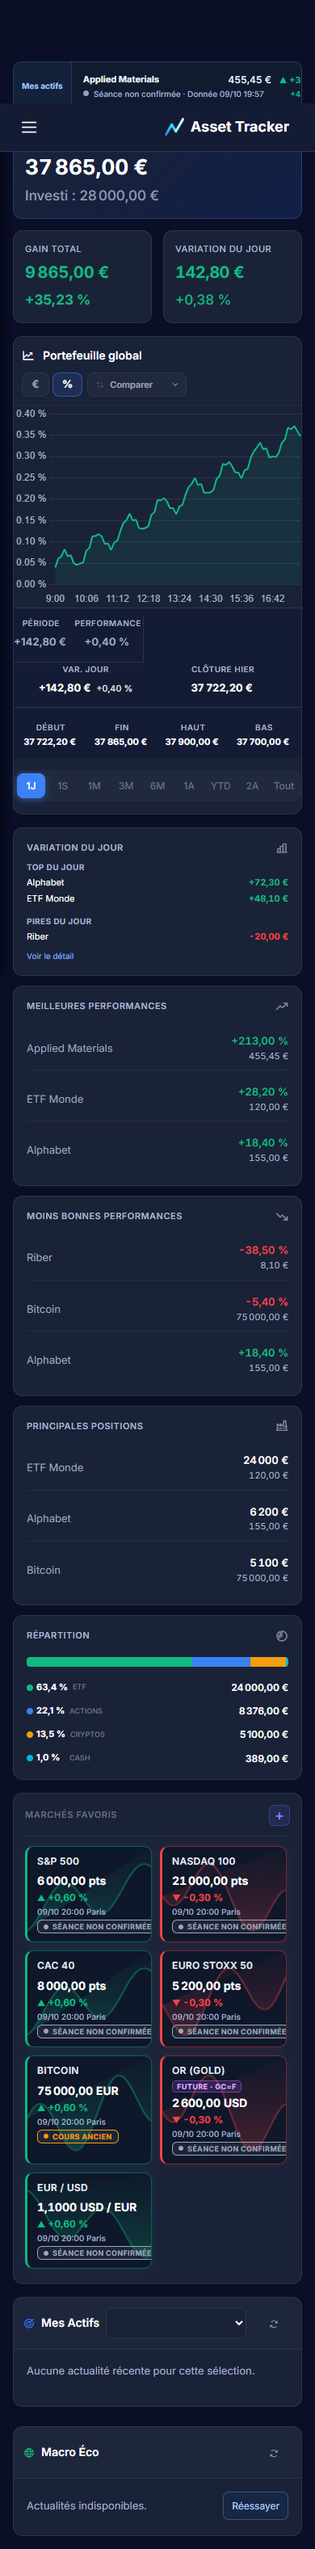
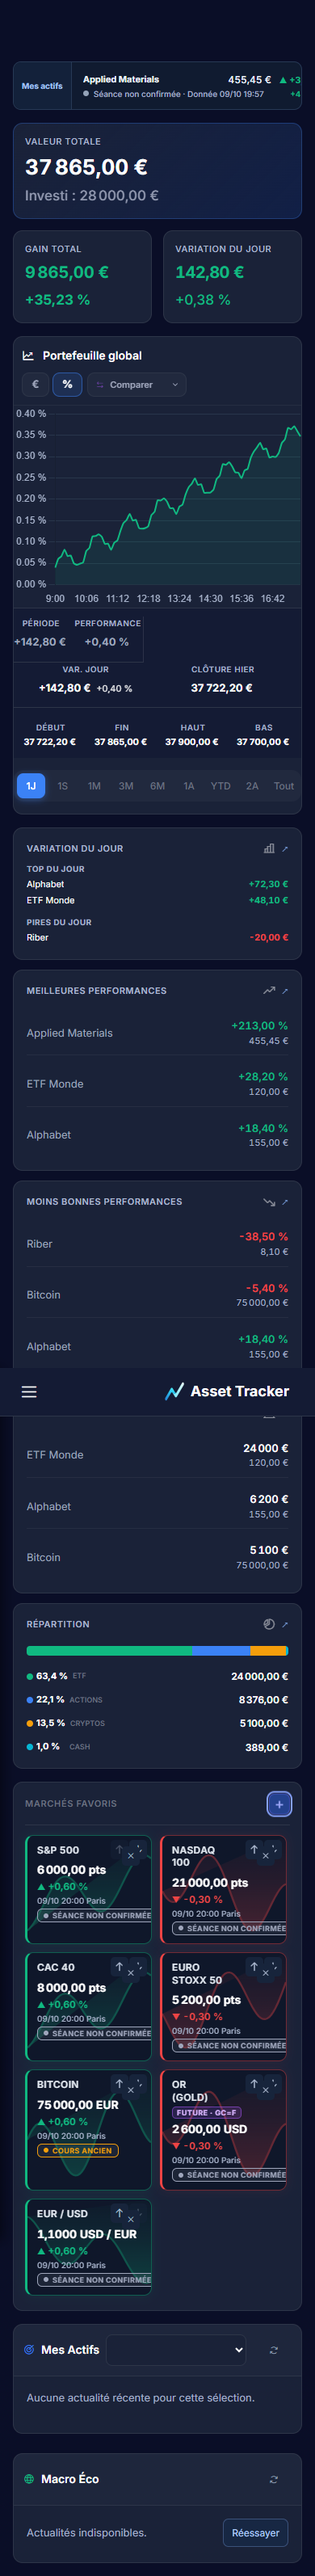
fix modal futures badges

diff --git a/tests/dashboardFutures.test.js b/tests/dashboardFutures.test.js
@@ -46,7 +46,8 @@ describe('Dashboard futures presentation', () => {
         vi.setSystemTime(new Date('2026-10-05T20:30:00Z'));
         const fetchQuote = vi.fn().mockResolvedValue({
             price: 7777.25, previousClose: 7700, lastTradingDayClose: 7650,
-            currency: 'USD', marketState: 'REGULAR', fetchedAt: Date.now()
+            currency: 'USD', marketState: 'REGULAR', fetchedAt: Date.now(), quoteAsOf: Date.now() - 5 * 60000,
+            exchangeTimezone: 'America/New_York', regularSession: { startMs: Date.now() - 2 * 3600000, endMs: Date.now() + 2 * 3600000 }
         });
         const app = makeApp(fetchQuote);
 
@@ -58,6 +59,8 @@ describe('Dashboard futures presentation', () => {
         expect(card.dataset.instrumentType).toBe('future');
         expect(card.classList.contains('market-card-future')).toBe(true);
         expect(card.textContent).toContain('FUTURE · ES');
+        expect(card.querySelector('.market-card-session').textContent).toBe('Futures');
+        expect(card.querySelector('.market-card-session').classList.contains('is-futures')).toBe(true);
         expect(card.style.border).toBe('');
         expect(card.classList.contains('stat-positive')).toBe(true);
     });
@@ -67,7 +70,8 @@ describe('Dashboard futures presentation', () => {
         vi.setSystemTime(new Date('2026-10-05T20:30:00Z'));
         const fetchQuote = vi.fn(async ticker => ticker === 'ES=F' ? null : {
             price: 7700, previousClose: 7650, lastTradingDayClose: 7600,
-            currency: 'USD', marketState: 'CLOSED', fetchedAt: Date.now()
+            currency: 'USD', marketState: 'CLOSED', fetchedAt: Date.now(), quoteAsOf: Date.now() - 5 * 60000,
+            exchangeTimezone: 'America/New_York', regularSession: { startMs: Date.now() - 8 * 3600000, endMs: Date.now() - 2 * 3600000 }
         });
         const app = makeApp(fetchQuote);
 
@@ -78,5 +82,22 @@ describe('Dashboard futures presentation', () => {
         expect(card.dataset.instrumentTicker).toBe('^GSPC');
         expect(card.dataset.instrumentType).toBe('cash');
         expect(card.textContent).not.toContain('FUTURE · ES');
+        expect(card.querySelector('.market-card-session').classList.contains('is-futures')).toBe(false);
+        expect(card.querySelector('.market-card-session').textContent).toBe('Dernière séance');
+    });
+
+    it('keeps a closed futures session visible instead of showing Futures', async () => {
+        vi.useFakeTimers({ toFake: ['Date'] });
+        vi.setSystemTime(new Date('2026-10-10T12:00:00Z'));
+        const app = makeApp(vi.fn().mockResolvedValue({
+            price: 2600, previousClose: 2590, currency: 'USD', marketState: 'CLOSED', fetchedAt: Date.now()
+        }));
+        app.getCustomIndices = () => [{ ticker: 'GC=F', name: 'Or', icon: 'Au', format: 'commodity' }];
+
+        await app.loadMarketIndices();
+
+        const session = document.querySelector('.market-card-session');
+        expect(session.textContent).toBe('Dernière séance');
+        expect(session.classList.contains('is-futures')).toBe(false);
     });
 });

diff --git a/css/dashboard-premium.css b/css/dashboard-premium.css
@@ -104,6 +104,8 @@
 .dashboard-premium .market-card.is-continuous .market-card-session { color: #60a5fa; }
 .dashboard-premium .market-card.is-closed .market-card-session { color: #f87171; }
 .dashboard-premium .market-card.is-stale .market-card-session { color: #f59e0b; }
+.dashboard-premium .market-card .market-card-session.is-futures { color: #c084fc; border-color: rgba(192, 132, 252, .75); background: rgba(168, 85, 247, .14); }
+.dashboard-premium .market-card .market-card-session.is-futures::before { box-shadow: 0 0 6px rgba(192, 132, 252, .8); }
 .dashboard-premium .market-card-time { grid-area: time; align-self: center; min-width: 0; overflow: hidden; text-overflow: ellipsis; white-space: nowrap; font-size: 10px; color: var(--dashboard-muted); }
 .dashboard-premium .market-source-badge { grid-area: badge; justify-self: start; font-size: 9px; }
 .dashboard-premium .market-source-badge[hidden] { display: none; }

diff --git a/src/dashboardApp.js b/src/dashboardApp.js
@@ -1294,8 +1294,9 @@ export class DashboardApp {
             change.textContent = view.pctText;
             change.className = `market-card-change ${view.tone}`;
             const session = card.querySelector('.market-card-session');
-            session.textContent = view.status;
-            session.className = 'market-card-session';
+            const showFuturesLabel = isContract && view.status === 'Séance ouverte';
+            session.textContent = showFuturesLabel ? 'Futures' : view.status;
+            session.className = `market-card-session${showFuturesLabel ? ' is-futures' : ''}`;
             card.querySelector('.market-card-time').textContent = view.time;
             // Colour code: card edge follows the day's direction, the session
             // pill follows the market state (open / 24/7 / closed / stale).

diff --git a/dashboard.html b/dashboard.html
@@ -17,7 +17,7 @@
     <link rel="stylesheet" href="css/dashboard.css?v=102">
     <link rel="stylesheet" href="css/dashboard-mobile.css?v=6">
     <link rel="stylesheet" href="css/chart-toolbar.css?v=7">
-    <link rel="stylesheet" href="css/dashboard-premium.css?v=8">
+    <link rel="stylesheet" href="css/dashboard-premium.css?v=9">
 
     <link rel="preconnect" href="https://fonts.googleapis.com">
     <link rel="preconnect" href="https://fonts.gstatic.com" crossorigin>

diff --git a/RELEASES.md b/RELEASES.md
@@ -28,6 +28,7 @@ sont pas assimilés à de nouvelles fonctionnalités.
 | `1.17.1` | 2026-10-12 | Version déjà publiée en ligne (build 347) | — |
 | `1.17.2` | 2026-10-12 | fix: fiabiliser le versionnement des deploiements | — |
 | `1.17.3` | 2026-10-12 | fix modal add indices | — |
+| `1.17.4` | 2026-10-12 | fix modal futures badges | — |
 
 Les messages de commit pilotent les nouvelles versions. Les scripts de
 déploiement ajoutent désormais aussi chaque correctif à ce tableau avant les
